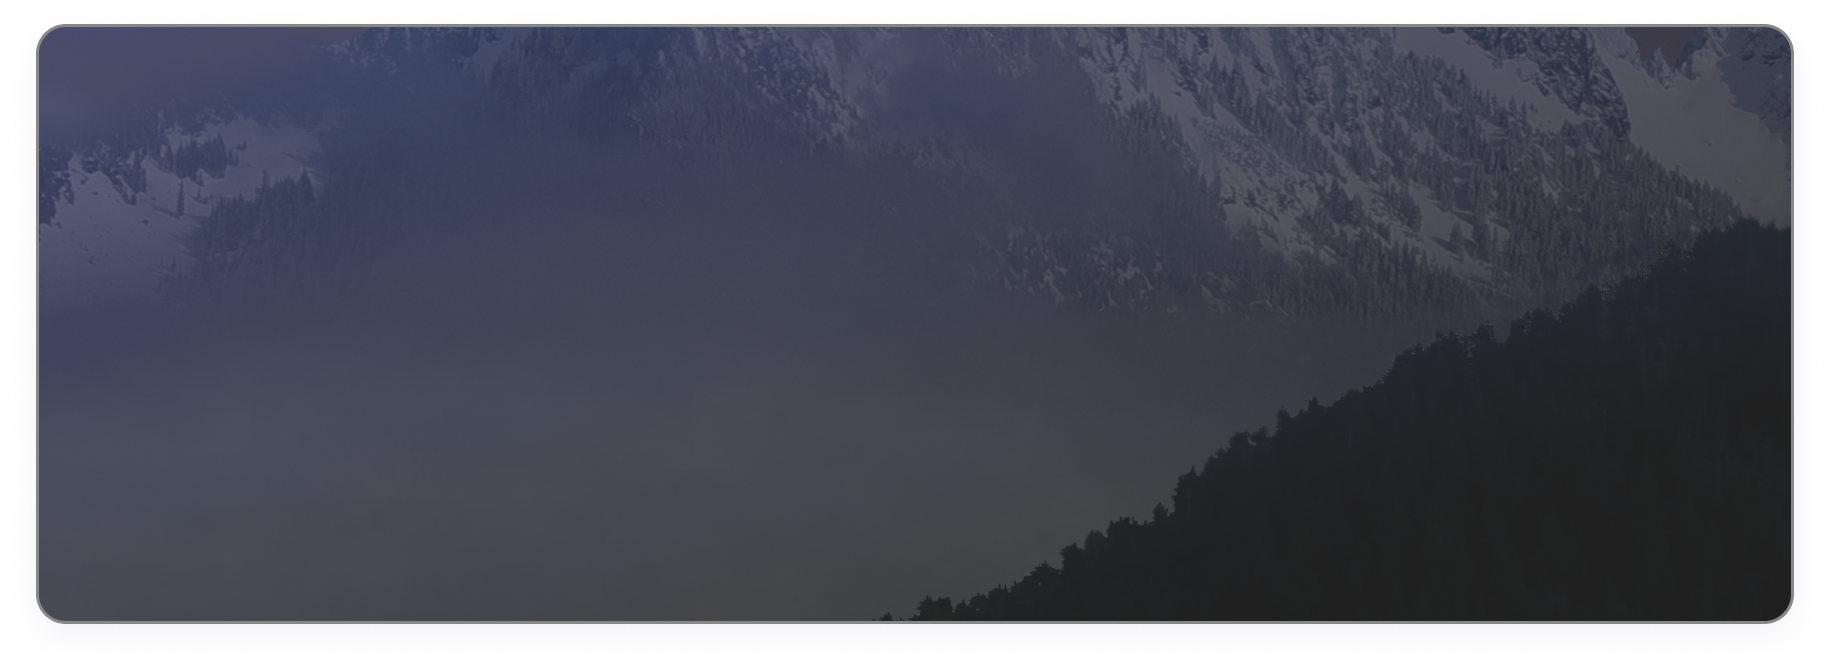
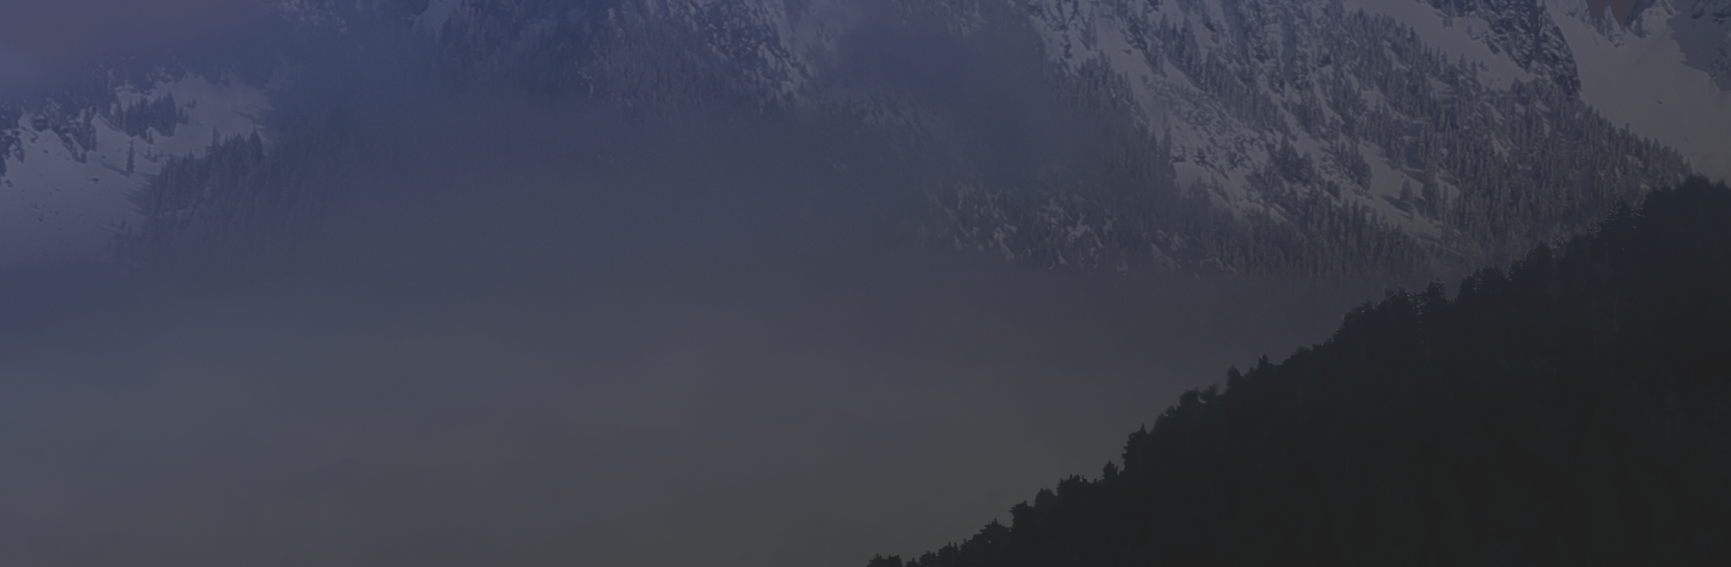
My Big Changes Commit

diff --git a/Vacations.API/ClientApp/src/app/main/components/top-navigation/top-navigation.component.scss b/Vacations.API/ClientApp/src/app/main/components/top-navigation/top-navigation.component.scss
@@ -4,13 +4,13 @@
     padding-right: 0;
 
     nav.navbar {
-        padding: 0 120px;
+        padding: 0 165px;
         background-color: #2E2E2E;
         color: white;
 
         a {
             color: white;
-            font-size: 16px;
+            font-size: 14px;
         }
 
         ul li {
@@ -37,7 +37,7 @@
         }
         p{
           color: grey;
-          font-size: 16px;
+          font-size: 13px;
           font-family: Muli-Bold;
           margin-top: 12px;
           padding-right: 5px;
@@ -47,10 +47,10 @@
             margin: 23px 0;
             font-size: 18px;
             font-family: Muli-Bold;
-            width: 346px;
+            width: 290px;
 
             h1 {
-                font-size: 20px;
+                font-size: 16px;
                 margin-left: 53px;
                 margin-top: 7px;
                 text-transform: uppercase;

diff --git a/Vacations.API/ClientApp/src/app/main/components/profile/my-vacations/my-vacations.component.scss b/Vacations.API/ClientApp/src/app/main/components/profile/my-vacations/my-vacations.component.scss
@@ -1,23 +1,23 @@
 .container{
-   
+
     padding-top: 30px;
     color:  #222222;
-    width: 540px;   
-   
+    width: 540px;
+
     .table{
-       
+
         background-color:rgba(192, 192, 192, 0.1);
-        font-size: 14px;       
-        color: white;  
+        font-size: 14px;
+        color: white;
         border-collapse: collapse;
         border-radius: 10px;
         border-style: hidden; /* hide standard table (collapsed) border */
-        box-shadow: 0 0 0 1px #666; /* this draws the table border  */ 
-        
-        .table-dark{                    
-           
+        box-shadow: 0 0 0 1px #666; /* this draws the table border  */
+
+        .table-dark{
+
             border-top: 0;
             border-radius: 10px 10px 0 0;
-        } 
-    }            
-} 
+        }
+    }
+}

diff --git a/Vacations.API/ClientApp/src/styles.scss b/Vacations.API/ClientApp/src/styles.scss
@@ -76,12 +76,13 @@ body {
 
 .comp-container {
     color: white;
+    margin-top: 30px;
     >h3 {
         background-color: #222222;
         border: 1px solid #878787;
         border-radius: 10px 10px 0 0;
         margin-bottom: 0;
-        font-size: 18px;
+        font-size: 14px;
         padding: 10px 25px;
         button {
             background: transparent;
@@ -92,7 +93,7 @@ body {
     >.details {
         background-color: #2E2E2E;
         padding: 25px;
-        font-size: 13px;
+        font-size: 11px;
         border: 1px solid #878787;
         border-radius: 0 0 10px 10px;
         border-top: 0;
@@ -133,7 +134,7 @@ form {
         }
     }
     .date {
-        font-size: 20px;
+        font-size: 16px;
     }
     .prev-month-date,
     .next-month-date {

diff --git a/Vacations.API/ClientApp/src/app/main/components/profile/my-profile/my-profile.component.ts b/Vacations.API/ClientApp/src/app/main/components/profile/my-profile/my-profile.component.ts
@@ -24,13 +24,13 @@ export class MyProfileComponent implements OnInit {
   ngOnInit() {
     this.service.getProfile().subscribe(response => {
       this.employee = response;
-      
+
       console.log(this.employee);
       console.log(response);
     });
 
     this.imgService.getImgUrl().subscribe(
-      response => {this.imgUrl = response; console.log(response); console.log(this.imgUrl);},
+      response => { this.imgUrl = response; console.log(response); console.log(this.imgUrl); },
       () => this.imgUrl = "default");
   }
 }

diff --git a/Vacations.API/ClientApp/src/app/main/components/profile/my-profile/my-profile.component.scss b/Vacations.API/ClientApp/src/app/main/components/profile/my-profile/my-profile.component.scss
@@ -4,7 +4,7 @@
     .main-details {
         border: 1px solid #878787;
         border-top: 0;
-        padding: 30px 0 30px 25px;
+        padding: 10px 0 10px 20px;
         background-color: #2E2E2E;
 
         button {
@@ -29,11 +29,11 @@
             margin-left: 85px;
 
             h3 {
-                font-size: 19px;
+                font-size: 14px;
             }
 
             h4 {
-                font-size: 14px;
+                font-size: 11px;
                 color: #878787;
             }
 

diff --git a/Vacations.API/ClientApp/src/app/main/components/view-employees-profile/view-employees-profile.component.ts b/Vacations.API/ClientApp/src/app/main/components/view-employees-profile/view-employees-profile.component.ts
@@ -1,4 +1,5 @@
 import { Component, OnInit } from '@angular/core';
+import { Router } from '@angular/router';
 
 @Component({
   selector: 'app-view-employees-profile',
@@ -7,8 +8,10 @@ import { Component, OnInit } from '@angular/core';
 })
 export class ViewEmployeesProfileComponent implements OnInit {
 
-  constructor() { }
-
+  constructor(private router: Router) { }
+  toEdit() {
+    this.router.navigate(['main/edit-profile']);
+  }
   ngOnInit() {
   }
   onCloseCancel() {

diff --git a/Vacations.API/ClientApp/src/app/main/components/profile/banner/banner.component.scss b/Vacations.API/ClientApp/src/app/main/components/profile/banner/banner.component.scss
@@ -1,13 +1,16 @@
 .banner {
     color: white;
     text-align: center;
-    height: 28%;
+    height: 200px;
+    border:1px solid #878787;
     border-radius: 10px;
    // border: 1px solid #878787;
     font-family: Muli-Bold;
     background-image: url('../../../../../assets/home-request-background.png');
     background-repeat: no-repeat;
     background-size: cover;
+    width: 540px;
+    margin-top: 30px;
 
     h2 {
         font-size: 40px;

diff --git a/Vacations.API/ClientApp/src/app/main/components/list-of-vacation-requests/list-of-vacation-requests.component.html b/Vacations.API/ClientApp/src/app/main/components/list-of-vacation-requests/list-of-vacation-requests.component.html
@@ -1,5 +1,5 @@
 <div class="container">
-  <table class="table"  (click)="openDialog()">
+  <table class="table table-responsive" style=" max-height: 80vh; overflow-y: auto; -ms-overflow-style: -ms-autohiding-scrollbar;"  (click)="openDialog()">
     <thead>
       <tr>
         <td class="table-dark" colspan="5">List of Vacation Requests</td>

diff --git a/Vacations.API/ClientApp/src/app/main/components/view-employees-profile/view-employees-profile.component.html b/Vacations.API/ClientApp/src/app/main/components/view-employees-profile/view-employees-profile.component.html
@@ -4,7 +4,7 @@
       <thead class="thead-dark">
         <tr>
           <td colspan="3">Employee Profile
-            <i class="icon-edit-icon-white float-right"></i>
+            <i class="icon-edit-icon-white float-right" (click)="toEdit()"></i>
           </td>
         </tr>
       </thead>

diff --git a/Vacations.API/ClientApp/src/app/main/components/list-of-employees/list-of-employees.component.html b/Vacations.API/ClientApp/src/app/main/components/list-of-employees/list-of-employees.component.html
@@ -1,5 +1,5 @@
 <div class="container">
-  <table class="table">
+  <table class="table table-responsive" style=" max-height: 80vh; overflow-y: auto; -ms-overflow-style: -ms-autohiding-scrollbar;">
     <thead>
       <tr>
         <td class="table-dark" colspan="5">List of Employees</td>

diff --git a/Vacations.API/ClientApp/src/app/main/components/list-of-teams/list-of-teams.component.html b/Vacations.API/ClientApp/src/app/main/components/list-of-teams/list-of-teams.component.html
@@ -1,5 +1,5 @@
 <div class="container">
-  <table class="table">
+  <table class="table table-responsive" style=" max-height: 80vh; overflow-y: auto; -ms-overflow-style: -ms-autohiding-scrollbar;">
     <thead>
       <tr>
         <td class="table-dark" colspan="5">List of Teams</td>

diff --git a/Vacations.API/ClientApp/src/app/main/main.component.html b/Vacations.API/ClientApp/src/app/main/main.component.html
@@ -5,10 +5,9 @@
     <div class="col-2">
       <app-left-navigation></app-left-navigation>
     </div>
-    <router-outlet></router-outlet>
+    <div class="col-8">
+      <router-outlet></router-outlet>
+    </div>
     <div class="col-2"></div>
   </div>
 </div>
-
-    
-   
